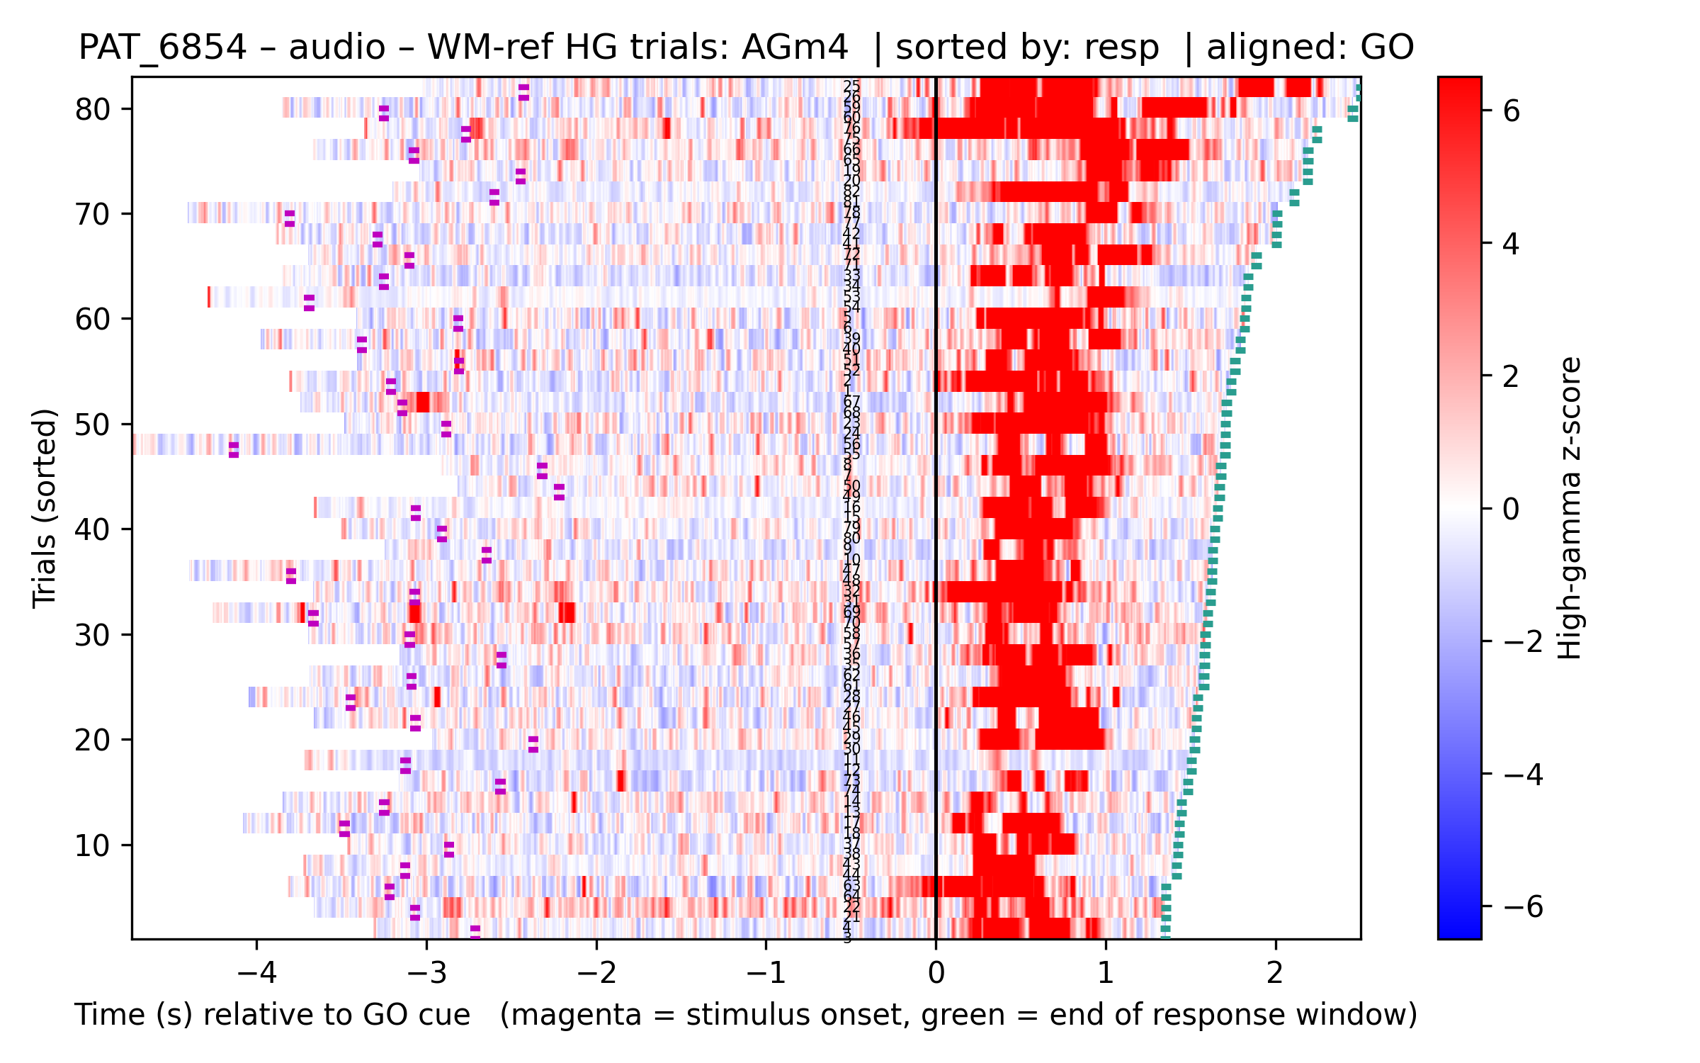
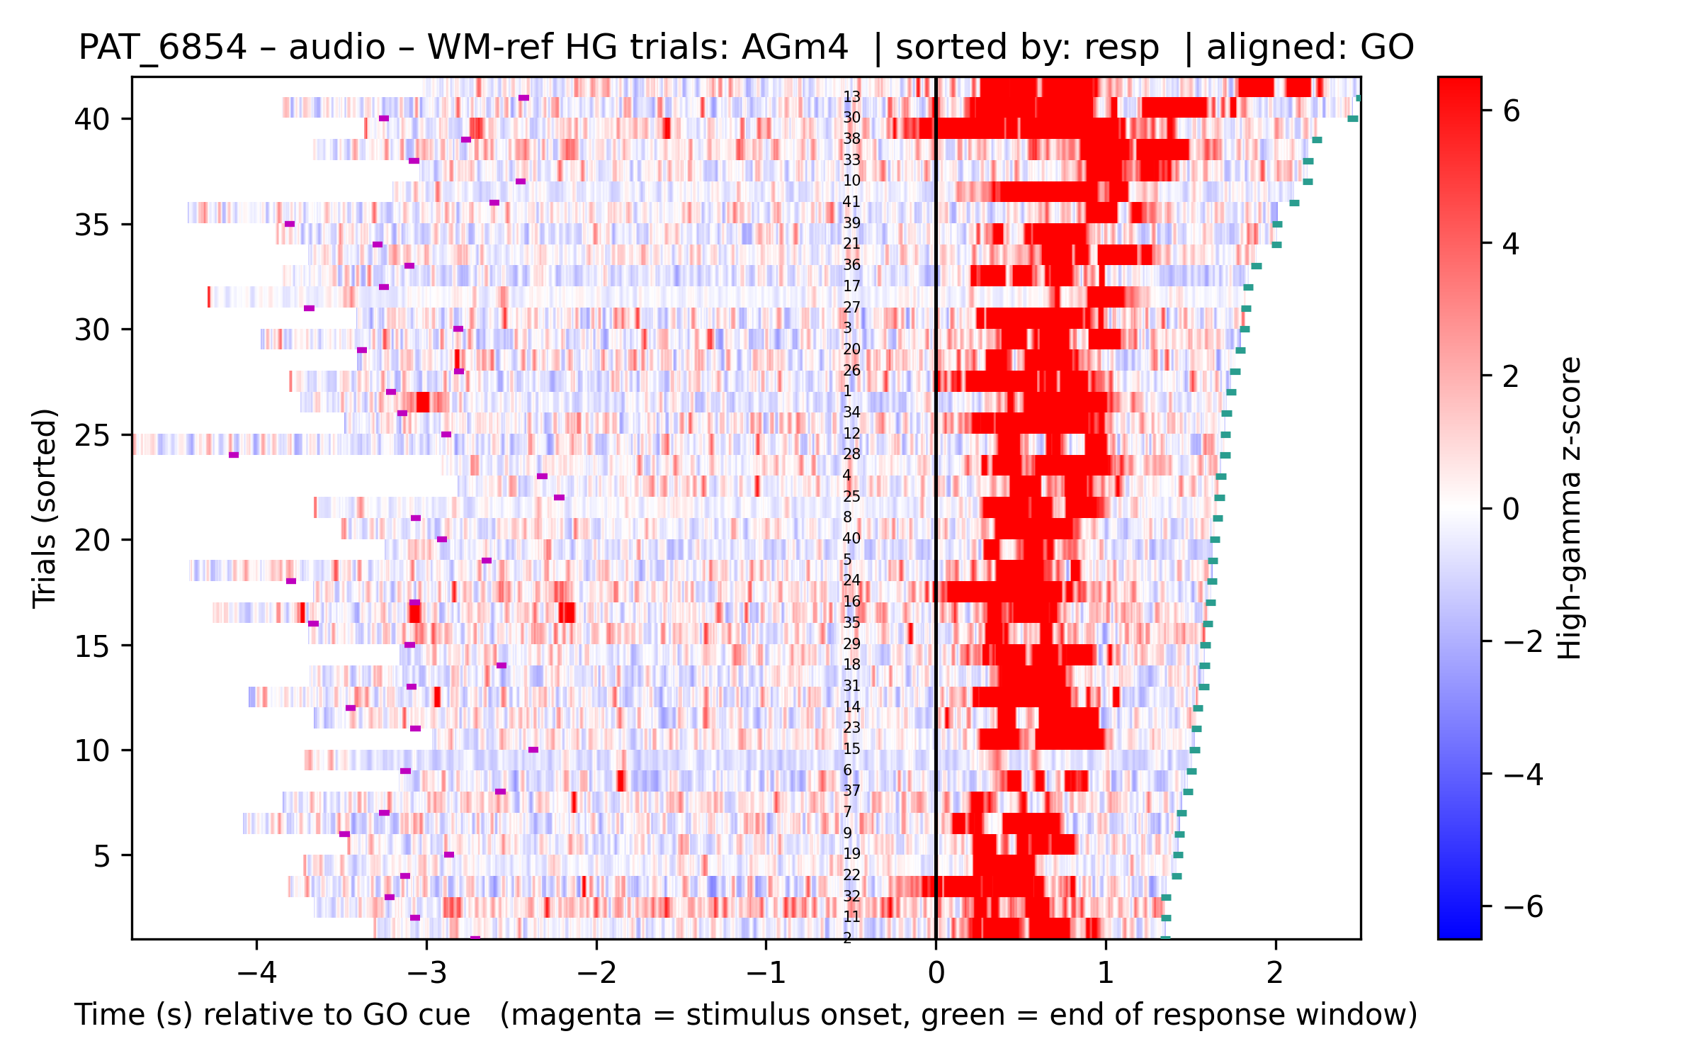
Fix what the page audit confirmed, re-measured against the live trees
A fan-out audit re-checked 464 claims across all 8 tabs. Of 14 flags sent
for adversarial re-verification only 7 survived, so the unverified ones
were NOT acted on -- two were rejected outright as misreading the
notebook and caveats sections, which record superseded results on purpose.

Every number below was re-measured today, after the latest 140/150 runs:

- 8646 -> 8722 cubes. The tree grew while the audit ran. 28 patients, tag
  histogram {_RT_GO: 8722}, 0 untagged.
- "Status at a glance" was stale: stage 01/04 showed a green pill dating
  from a July commit, and stage 02's watch-out said "Recon (252) not yet
  re-run" when 25 populated recon/ directories exist. Stage 01 now points
  at the real-time tree; stage 02 points at the graded-decomposition
  ledger that supersedes it.
- FIG S4 claimed "same colour means the same cluster in all three
  panels". Panel a is K=5 (its recon holds cluster_00..04), panels b and c
  are K=10, so c0 in a is a different electrode set from c0 in b/c.
- The LanA "all" rows reproduced a superseded summary CSV: 5247 contacts
  where the run actually shown has 2981, 82% -> 86%, and the L/R split
  2357/1933 -> 1324/1221. Re-derived from the run's own recon CSV; the
  concat rows were already correct and are untouched.
- FIG RT.2's embedded image no longer matched the file it cited -- the
  trial repair halved that patient's audio trials from 82 to 41.
  Regenerated from the current file rather than editing the caption.
[…]

diff --git a/analysis_status.html b/analysis_status.html
@@ -205,7 +205,7 @@
     <div class="then"><b>The five figures below answer those four questions in order</b>, one figure per argument. Each gathers the panels belonging to a single claim so it can be judged in one place; the stage tabs hold the same panels with the diagnostics behind them.</div>
 
 <h3>Headline figures — one per argument</h3>
-    <p>The stage tabs below hold 46 numbered figures, ordered by when they were produced. These five
+    <p>The stage tabs below hold 53 numbered figures, ordered by when they were produced. These five
       are ordered by <b>what they argue</b>: each one gathers the panels that belong to a single claim so
       the claim can be judged in one place. Everything in them also appears in its stage tab, with the
       diagnostics that back it.</p>
@@ -291,7 +291,7 @@
         <li><b>c — in what order.</b> Cross‑correlation against the auditory cluster: follow each curve
           to its peak, left of zero is earlier. Only the response window is used, because over the full
           trial these clusters are not the same shape shifted in time and the lag would be meaningless.</li>
-        <li>Same colour means the same cluster in all three panels.</li>
+        <li><b>Cluster ids do not correspond across the panels.</b> Panel a is the <b>K=5</b> partition (that run's <code>recon/</code> holds cluster_00&ndash;cluster_04); panels b and c are <b>K=10</b>. Colour is shared between b and c only.</li>
       </ul><div class="runid">source: kmeans/concat_hg 20260803_175417</div></div>
       <div class="imgwrap"><img data-fig="02_FBM_Clustering/outputs/clustering/story/S4_timing.png" alt="timing"></div>
     </figure>
@@ -342,21 +342,21 @@
     <div class="method"><ul>
       <li><b>Same data, three questions.</b> All three read the identical ERSP substrate; they differ only in <i>who supplies the structure</i> — the data (clustering), the labels (decoding), or prior theory (pooling).</li>
       <li><b>They cross‑check each other.</b> What the unsupervised clustering surfaces on its own should be the same axis the supervised decoder can exploit, and the a‑priori roles should land where both put their signal. Agreement across lenses is the evidence; disagreement flags where the story is fragile.</li>
-      <li><b>Different sample units, on purpose.</b> Clustering keeps each electrode × condition as a separate sample (so the condition axis can emerge); decoding‑parcellation and pooling <i>concatenate</i> the three conditions into one per‑electrode profile (so the electrode's functional <i>type</i> is the unit). That choice sets what question each lens can even ask.</li>
+      <li><b>Different sample units, and the canonical track changed.</b> The clustering run every figure here uses (<code>kmeans/concat_hg 20260803_175417</code>) <i>concatenates</i> the three conditions into one 900‑bin per‑electrode profile — 1027 electrodes — exactly as decoding‑parcellation and pooling do. The older per‑condition track, which kept each electrode × condition as its own sample (2102 samples, K=9), is retained only for comparison. The sample unit still sets what each lens can ask; it is no longer what distinguishes them.</li>
     </ul></div>
 
     <h3>Status at a glance</h3>
     <table>
       <tr><th>Stage</th><th>Status</th><th>What it establishes</th><th>Watch‑outs</th></tr>
-      <tr><td><b>01 ERSP</b></td><td><span class="pill ok">current</span></td>
-        <td>The shared, cleaned, time‑warped ERSP substrate for the cohort.</td>
-        <td>Micro/macro (nb 11) not yet run; spike‑sorting figures are notebook‑inline only.</td></tr>
-      <tr><td><b>02 Clustering</b></td><td><span class="pill ok">reran 07‑19</span></td>
+      <tr><td><b>01 ERSP</b></td><td><span class="pill ok">reran 08‑16</span></td>
+        <td>The shared, cleaned, time‑warped ERSP substrate, plus a second <b>non‑warped, GO‑locked</b> tree (<a href="#realtime">&sect;1.9</a>).</td>
+        <td>Micro/macro (nb 11) not yet run; spike‑sorting figures are notebook‑inline only. EL048 and PAT_6953 still incomplete.</td></tr>
+      <tr><td><b>02 Clustering</b></td><td><span class="pill ok">reran 08‑08</span></td>
         <td>Structure does emerge — and it is the condition/modality axis; not noise, but not a clean "language" type either.</td>
-        <td>Recon (252) not yet re‑run; <code>NOTEBOOKS.md</code> still names the 212 track — <b>pick your headline</b>.</td></tr>
+        <td><code>NOTEBOOKS.md</code> still names the 212 track — <b>pick your headline</b>. Superseded by the graded decomposition — see <a href="#gradedvspartition">the ledger</a>.</td></tr>
       <tr><td><b>03 Decoding</b></td><td><span class="pill ok">reran 07‑19</span></td>
         <td>Condition is decodable and driven by the early sensory response; network membership much less so.</td>
-        <td>Notebooks + comparison figures refreshed today; 2 <code>full_300/logreg</code> combos still to re‑run; variant set to decide.</td></tr>
+        <td>Notebooks + comparison figures refreshed 07‑19; 2 <code>full_300/logreg</code> combos still to re‑run; variant set to decide.</td></tr>
       <tr><td><b>04 Pooling</b></td><td><span class="pill ok">current</span></td>
         <td>Hypothesis‑driven roles map on the brain, with a response‑timing sequence across regions.</td>
         <td>poolv2 web tool now bit‑identical to the notebook (convergence fixed).</td></tr>
@@ -464,14 +464,16 @@
           <b>113&nbsp;MiB on a 63.7&nbsp;GB machine</b>, which is allocator-level exhaustion, so the fix is a
           fresh process or kernel per patient, not a code change. (It is not perfectly monotonic: EL045
           failed at 969&nbsp;MiB <i>after</i> reading 136 channels, between two 113&nbsp;MiB failures.)</li>
-        <li><b>8646 ERSP cubes</b>, every one tagged <code>_RT_GO</code> &mdash; none untagged, none
+        <li><b>8722 ERSP cubes</b>, every one tagged <code>_RT_GO</code> &mdash; none untagged, none
           <code>_TN</code>. HG plots outnumber cubes because HG is drawn for every channel while cubes are
           written only for channels surviving the WM / bad-channel / Unknown exclusions.
           <b>425 auxiliary-channel files were deleted on 16 August</b> after the filter was found to be
           letting <code>EKG-</code>, <code>EMG-</code> and the <code>X</code> families through as if they
           were cortex &mdash; see the integrity tab.</li>
-        <li><b>Nothing leaked into 140's trees.</b> The newest file under <code>04_ersp_LM</code> predates
-          this run by four days.</li>
+        <li><b>Nothing leaked into 140's trees.</b> Verified by mtime when this tree was first written: the
+          newest file under <code>04_ersp_LM</code> was four days older. <code>04_ersp_LM</code> has
+          since been re-run for EL046/EL048, so the two trees now share a date &mdash; the isolation
+          claim is about the original run, not a standing property.</li>
       </ul>
       <div class="runid">source: <code>05_ERSP_LM_RAWONLY_RealTime</code> &middot; notebook 150, single execution &middot; every number re-verified against the tree on disk</div></div>
       <div class="imgwrap"><img data-fig="01_FBM_Analysis/outputs/_status_png/realtime/RT1_run_status.png" alt="per-patient run status"></div>
@@ -2036,8 +2038,8 @@
     <table>
       <thead><tr><th>cohort</th><th>n</th><th>threshold</th><th>in network</th><th>%</th><th>left</th><th>right</th></tr></thead>
       <tbody>
-        <tr><td>all</td><td>5247</td><td>P ≥ 0.05</td><td>4290</td><td>82%</td><td>2357</td><td>1933</td></tr>
-        <tr><td>all</td><td>5247</td><td><b>P ≥ 0.10</b></td><td>1984</td><td>38%</td><td><b>1263</b></td><td>721</td></tr>
+        <tr><td>all</td><td>2981</td><td>P ≥ 0.05</td><td>2553</td><td>86%</td><td>1324</td><td>1221</td></tr>
+        <tr><td>all</td><td>2981</td><td><b>P ≥ 0.10</b></td><td>1171</td><td>39%</td><td><b>717</b></td><td>453</td></tr>
         <tr><td>concat</td><td>2617</td><td>P ≥ 0.05</td><td>2233</td><td>85%</td><td>1063</td><td>1170</td></tr>
         <tr><td>concat</td><td>2617</td><td><b>P ≥ 0.10</b></td><td>1007</td><td>38%</td><td><b>568</b></td><td>439</td></tr>
       </tbody>
@@ -2376,54 +2378,90 @@
       <span class="nb-na">N/A</span> means that stage was untouched, not that the entry is missing.
       Newest first; links jump to the relevant tab.</p>
 <div class="callout q" style="margin:0 0 22px">
-  <h3 style="margin:0 0 8px">Next week</h3>
-  <p style="margin:0 0 10px;color:var(--muted);font-size:13px">Nothing here is blocking &mdash; the
-    03&nbsp;August cohort, the K=7 decomposition and both tools are current as of 2026-08-08.
-    Ordered by what unblocks the most.</p>
+  <h3 style="margin:0 0 8px">What's next</h3>
+  <p style="margin:0 0 10px;color:var(--muted);font-size:13px">Re-checked against the data on
+    2026-08-16. Nothing here blocks the 05 tree as it stands &mdash; <b>28 of 30 patients are in,
+    8722 cubes</b>.</p>
+
+  <b style="font-size:12.5px">Waiting on data, not on code</b>
+  <ul style="margin:4px 0 12px">
+    <li><b>EL048's behavioural file.</b> All 158 trials have <code>trial_end</code> and
+      <code>resp_accuracy</code> = NaN, so the patient yields nothing. Its anatomy and WM reference are
+      already solved. When the file arrives, re-run its cell alone &mdash; and re-check
+      <code>trial_end</code>, not just accuracy, since one missing export explains both.</li>
+    <li><b>PAT_6953's electrodes.</b> Needs either a BIDS
+      <code>sub-6953_electrodes.tsv</code> (only three columns matter: <code>name</code>,
+      <code>tissueLabel</code>, <code>tissueWeights_1</code>) or a Lookup workbook of its own. Its
+      trials and raw are fine &mdash; the <code>elec_recon</code> folder found for it holds FreeSurfer
+      <i>input</i>, not an electrodes table.</li>
+    <li><b>EL048's native&rarr;MNI normalisation.</b> Its reconstruction is sound and supplies the
+      <code>talairach.xfm</code>, but until that is applied EL048 stays out of the recon, the
+      glassbrains and MOBA's 3-D brain even once it processes.</li>
+  </ul>
 
   <b style="font-size:12.5px">Decisions only you can make</b>
   <ul style="margin:4px 0 12px">
-    <li><b>Response timing (05_FBM_ResponseTiming).</b> Two different projects, and they cost very
-      different amounts. <i>(a)</i> A seconds-axis relabel &mdash; bins 150&ndash;299 of every saved
-      ERSP <b>already are</b> the response period, just normalised, so this is a units change and
-      cheap. <i>(b)</i> Genuinely un-warped single trials &mdash; needs the whole ERSP stage re-run
-      from ~29&nbsp;GB of raw, and <b>3+ patients' raw files could not be located</b>. Note before
-      choosing: <b>there is no response-onset event in the data</b>. Only stimulus onset, GO, and a
-      <code>trial_end</code> constructed from a behavioural-log duration whose meaning differs
-      between the HUG and Bern cohorts.</li>
-    <li><b>Pick the opening</b> &mdash; <a href="#clusterplan">FIG C.4a or C.4b</a>. The same ARI
-      matrix is a caveat in A and a finding in B; only its position changes what it means.</li>
-    <li><b>04_ersp_LM</b> &mdash; 264&nbsp;GB of QC plots. Keep or delete.</li>
-    <li><b>The ~132 contacts that exist only in <code>04_ersp_LM_RAWONLY - Copy</code></b>. The
-      snapshot is being kept until this is resolved.</li>
-    <li><b>EL044's 8 unlocalised contacts</b> &mdash; parked by you.</li>
+    <li><b>Is <code>04</code> regenerated, or frozen?</b> It is inconsistent with the current code &mdash;
+      the duplicate-TSV fix alone changes trial counts for four MicroEPI patients, and the auxiliary
+      filter changes which channels export. Either re-run it or mark it superseded; leaving it invites
+      a comparison that cannot be valid.</li>
+    <li><b>EL040 FP-R14.</b> Excluded with the other five, but it is a clean cortical contact
+      (<code>tissueWeights_1</code>&nbsp;=&nbsp;1.0, no Unknown, no WM). One line to restore.</li>
+    <li><b>Per-patient response cap.</b> <code>RT_MAX_POST_S = 5.0</code> is uniform, but EL046's
+      reading median is 7.9&nbsp;s, so that block loses most of its trials while others lose none.</li>
+    <li><b>Opening figure A or B</b> &mdash; <a href="#clusterplan">FIG C.4a / C.4b</a>. Still open.</li>
+    <li><b>How to frame the sample-unit contrast in the Overview.</b> The canonical clustering track now
+      concatenates conditions exactly as pooling does, so the old "different lenses, different units"
+      framing no longer separates them.</li>
   </ul>
 
   <b style="font-size:12.5px">Known wrong, small fixes</b>
   <ul style="margin:4px 0 12px">
-    <li><b>The pipeline consensus produced a 6-electrode cluster.</b> That is not a cluster &mdash;
-      exclude it or set a minimum size.</li>
-    <li><b><code>lf_centroids._is_line_feature_set</code> does not cover <code>cnmf</code></b>, so
-      MOBA renders that run's centroid chips as a 1-pixel strip.</li>
+    <li><b>The Unknown rule is order-sensitive</b> &mdash; it tests only the first token of a
+      multi-label <code>tissueLabel</code>, so two contacts with identical labels in different order
+      are treated differently. EL040 surfaced it; other patients may be affected.</li>
+    <li><b>140 still carries a duplicate pipeline cell</b> (an older copy without the MicroEPI branch or
+      per-grid CAR) writing to the same paths. Removed from 150, not from 140.</li>
+    <li><b>The accuracy filter is silent</b> &mdash; it drops <b>13.0%</b> of trials (543 of 4184) on a
+      default nobody chose. Two lines would log the per-patient counts, and would also catch the case
+      where a missing column drops <i>every</i> trial.</li>
+    <li><b>Four trials carry <code>fitness)</code> as an accuracy value</b> (PAT_2868, 3066, 3390, 3415)
+      &mdash; a parsing artefact, so those rows are probably column-shifted and their timing should not
+      be trusted.</li>
+    <li><b>FIG C.3 panel D's bars are hard-coded literals.</b> The values are right (re-derived) but the
+      figure can drift from the analysis without anything failing.</li>
   </ul>
 
   <b style="font-size:12.5px">Analysis still open</b>
   <ul style="margin:4px 0 0">
-    <li><b>465 gaussian pooling</b> is running on stale counts.</li>
-    <li><b>Two decoding runs</b>: <code>condition/full_300/logreg</code>, and Yeo-7 in 320/330.</li>
-    <li><b>Micro/macro (notebook 11)</b> has never been run to saved output.</li>
-    <li><b>Anatomical coherence across K</b> was only measured at one value. A curve would give a
-      selection criterion about the brain rather than about reconstruction error &mdash; which is
-      the criterion you said you actually care about.</li>
+    <li><b>Re-render the ERSP_clean PNGs</b> at the 0&ndash;400&nbsp;Hz wide crop &mdash; rebuildable from
+      the cubes in one pass, no pipeline time.</li>
+    <li><b>Stage 05 needs its own loader.</b> Cube width varies by patient <i>and</i> condition, and
+      neither axis is stored in the <code>.npy</code>.</li>
+    <li><b>Still no speech-onset event</b> anywhere in the data &mdash; everything is locked to the GO
+      cue, not to when the patient spoke. Decide whether that is enough for the response-timing claim.</li>
+    <li><b>Anatomical coherence across K</b> was measured at one value only; a curve would give a
+      selection criterion about the brain rather than about reconstruction error, which is the criterion
+      you said you actually care about.</li>
+    <li><b>465 pooling</b> on stale counts; <b>two decoding runs</b>
+      (<code>condition/full_300/logreg</code> and Yeo-7); <b>micro/macro nb 11</b> never run to saved
+      output.</li>
   </ul>
 </div>
 
-<div class="nb-day"><div class="nb-date"><span>2026-08-14</span><span class="tag">two silent data failures; EL046/EL048 recovered</span></div><div class="nb-row"><div class="nb-stage">01 &middot; ERSP</div><div class="nb-body"><ul>
+<div class="nb-day"><div class="nb-date"><span>2026-08-16</span><span class="tag">silent data failures, the 04/05 audit, auxiliary channels</span></div><div class="nb-row"><div class="nb-stage">01 &middot; ERSP</div><div class="nb-body"><ul>
 <li><b>G-02 and G-03 had a flat 2&nbsp;s response on every trial</b> &mdash; 4096 samples, zero variance, all three blocks. Their log spelled the column <code>response_timex</code>, so the <code>response_time</code> lookup missed and fell back to <code>offsets + fs&times;2.0</code>. <b>Repaired without re-running PD extraction</b>; the join was proven on G-01 first, reproducing its 320 correct rows to within 1 sample. Trial counts drop, correctly &mdash; with a flat 2&nbsp;s nothing had ever been filtered for these two.</li>
 <li><b>EL046 and EL048 recovered from the anatomy Lookup</b>, neither having any BIDS_elec entry. 13 and 16 WM channels. <code>isOut</code> contacts are outside the brain and are now bad channels. The workbook named after the patient is <i>not</i> always the usable one, so the reader picks by content.</li>
 <li><b>Response accuracy has always been filtered silently</b> &mdash; 13.0% of trials, on a default nobody chose.</li>
 <li><b>Two id-spelling bugs fixed</b>, and all ten HUG patients now run. <b>26 of 30 have cubes</b> (was 9). <a href="#realtime">FIG RT.1/RT.3 rebuilt</a>; RT.3 on the project's own <code>bwr</code> &plusmn;6&nbsp;dB scale, full 0&ndash;400&nbsp;Hz, capped at +3&nbsp;s.</li>
 <li><b>Notebook 150 split into one cell per patient</b>, each with a generated markdown header carrying that patient's site, language, blocks, electrode type and today's findings.</li>
+<li><b>Auxiliary channels had been ERSP'd as cortex in BOTH trees.</b> The non-neural filter matched only <code>X1&ndash;X8</code>/<code>E1&ndash;E8</code> and <code>ECG</code>, so <code>EKG-</code>, <code>EMG-</code> and the <code>X9&ndash;X12</code>&nbsp;/&nbsp;<code>X1m*</code>&nbsp;/&nbsp;<code>X2m*</code> families passed through and would have entered clustering as ordinary electrodes. Widened after checking all <b>1690</b> distinct channel names &mdash; every <code>X*</code> name in the cohort is auxiliary, so no real contact is caught. <b>425 files, 108&nbsp;MB deleted</b>; zero remain.</li>
+<li><b>04 vs 05 audit &mdash; all 627 channel differences accounted for:</b> 486 conditions 05 had not run, 72 Unknown/unparcellated, 36 manual bad channels, 18 the auxiliary leak, 15 EL040. <b>Nothing unexplained.</b></li>
+<li><b>EL040 FP-R10&ndash;FP-R15 excluded.</b> The Unknown rule tests only the <i>first</i> token of <code>tissueLabel</code>, so FP-R11 (<code>Unknown ctx-rh-&hellip;</code>) was dropped while FP-R12 and FP-R15 &mdash; the same two labels in the opposite order &mdash; were kept. Dropped the whole run rather than depend on label order. <i>FP-R14 is a clean cortical contact and is excluded only because the instruction was to drop all six.</i></li>
+<li><b>EL046 recovered, and the cause was mine.</b> Its <code>time_range</code> was reverted to an older value when I repaired a corrupted <code>config.py</code> with <code>git checkout --</code>, which took an uncommitted edit with it. Restored, now covering <b>160/160</b> trials. Also: <b>EL046 is 1024&nbsp;Hz, not 2048</b>, and its reading responses are genuinely slow (median 7.9&nbsp;s), so the 5&nbsp;s cap culls that block hard.</li>
+<li><b>PAT_6953's trials were nested one level too deep</b> in <code>prep0/prep0/</code>, which is why it read as "no trials". Timing is sound; it is now blocked only on an electrode reconstruction.</li>
+<li><b>EL048's reconstruction checked and it is sound</b> &mdash; 78/78 contacts and hemispheres agree with the Lookup, per-axis r&nbsp;=&nbsp;1.000/0.9997/0.9899. The only discrepancy is a constant <b>~23&nbsp;mm</b> anterior-posterior origin offset, so the two coordinate sets must not be mixed. It supplies the <code>talairach.xfm</code> the Lookup lacks, so it is the route to MNI. Caveats: the DKT <code>.annot</code> files are 0 bytes, and it covers the 78 macros only.</li>
+<li><b>Deep audit of this whole page</b> &mdash; 464 claims re-checked against the data across 8 tabs. Fixed: the stale "Status at a glance" pills, FIG S4's claim that colour means the same cluster in all three panels (panel a is K=5, b/c are K=10), the LanA "all" rows (which reproduced a superseded summary: 5247&nbsp;&rarr;&nbsp;<b>2981</b> contacts, 82%&nbsp;&rarr;&nbsp;86%), the figure count, and FIG RT.2's embedded image, which no longer matched the file it cited after the trial repair halved that patient's trial count.</li>
 </ul></div></div><div class="nb-row"><div class="nb-stage">02 &middot; Clustering</div><div class="nb-body"><span class="nb-na">N/A</span></div></div><div class="nb-row"><div class="nb-stage">03 &middot; Decoding</div><div class="nb-body"><span class="nb-na">N/A</span></div></div><div class="nb-row"><div class="nb-stage">04 &middot; Pooling</div><div class="nb-body"><span class="nb-na">N/A</span></div></div></div>
 <div class="nb-day"><div class="nb-date"><span>2026-08-14</span><span class="tag">real-time re-run; the HUG id bug decoded</span></div><div class="nb-row"><div class="nb-stage">01 &middot; ERSP</div><div class="nb-body"><ul>
 <li><b>Re-run restarted patient by patient</b> after the 2026-08-11 fixes. <b>21 of 30 now have cubes</b> (was 9), including six HUG patients that could not start at all before. <a href="#realtime">FIG RT.1 rebuilt</a>.</li>
